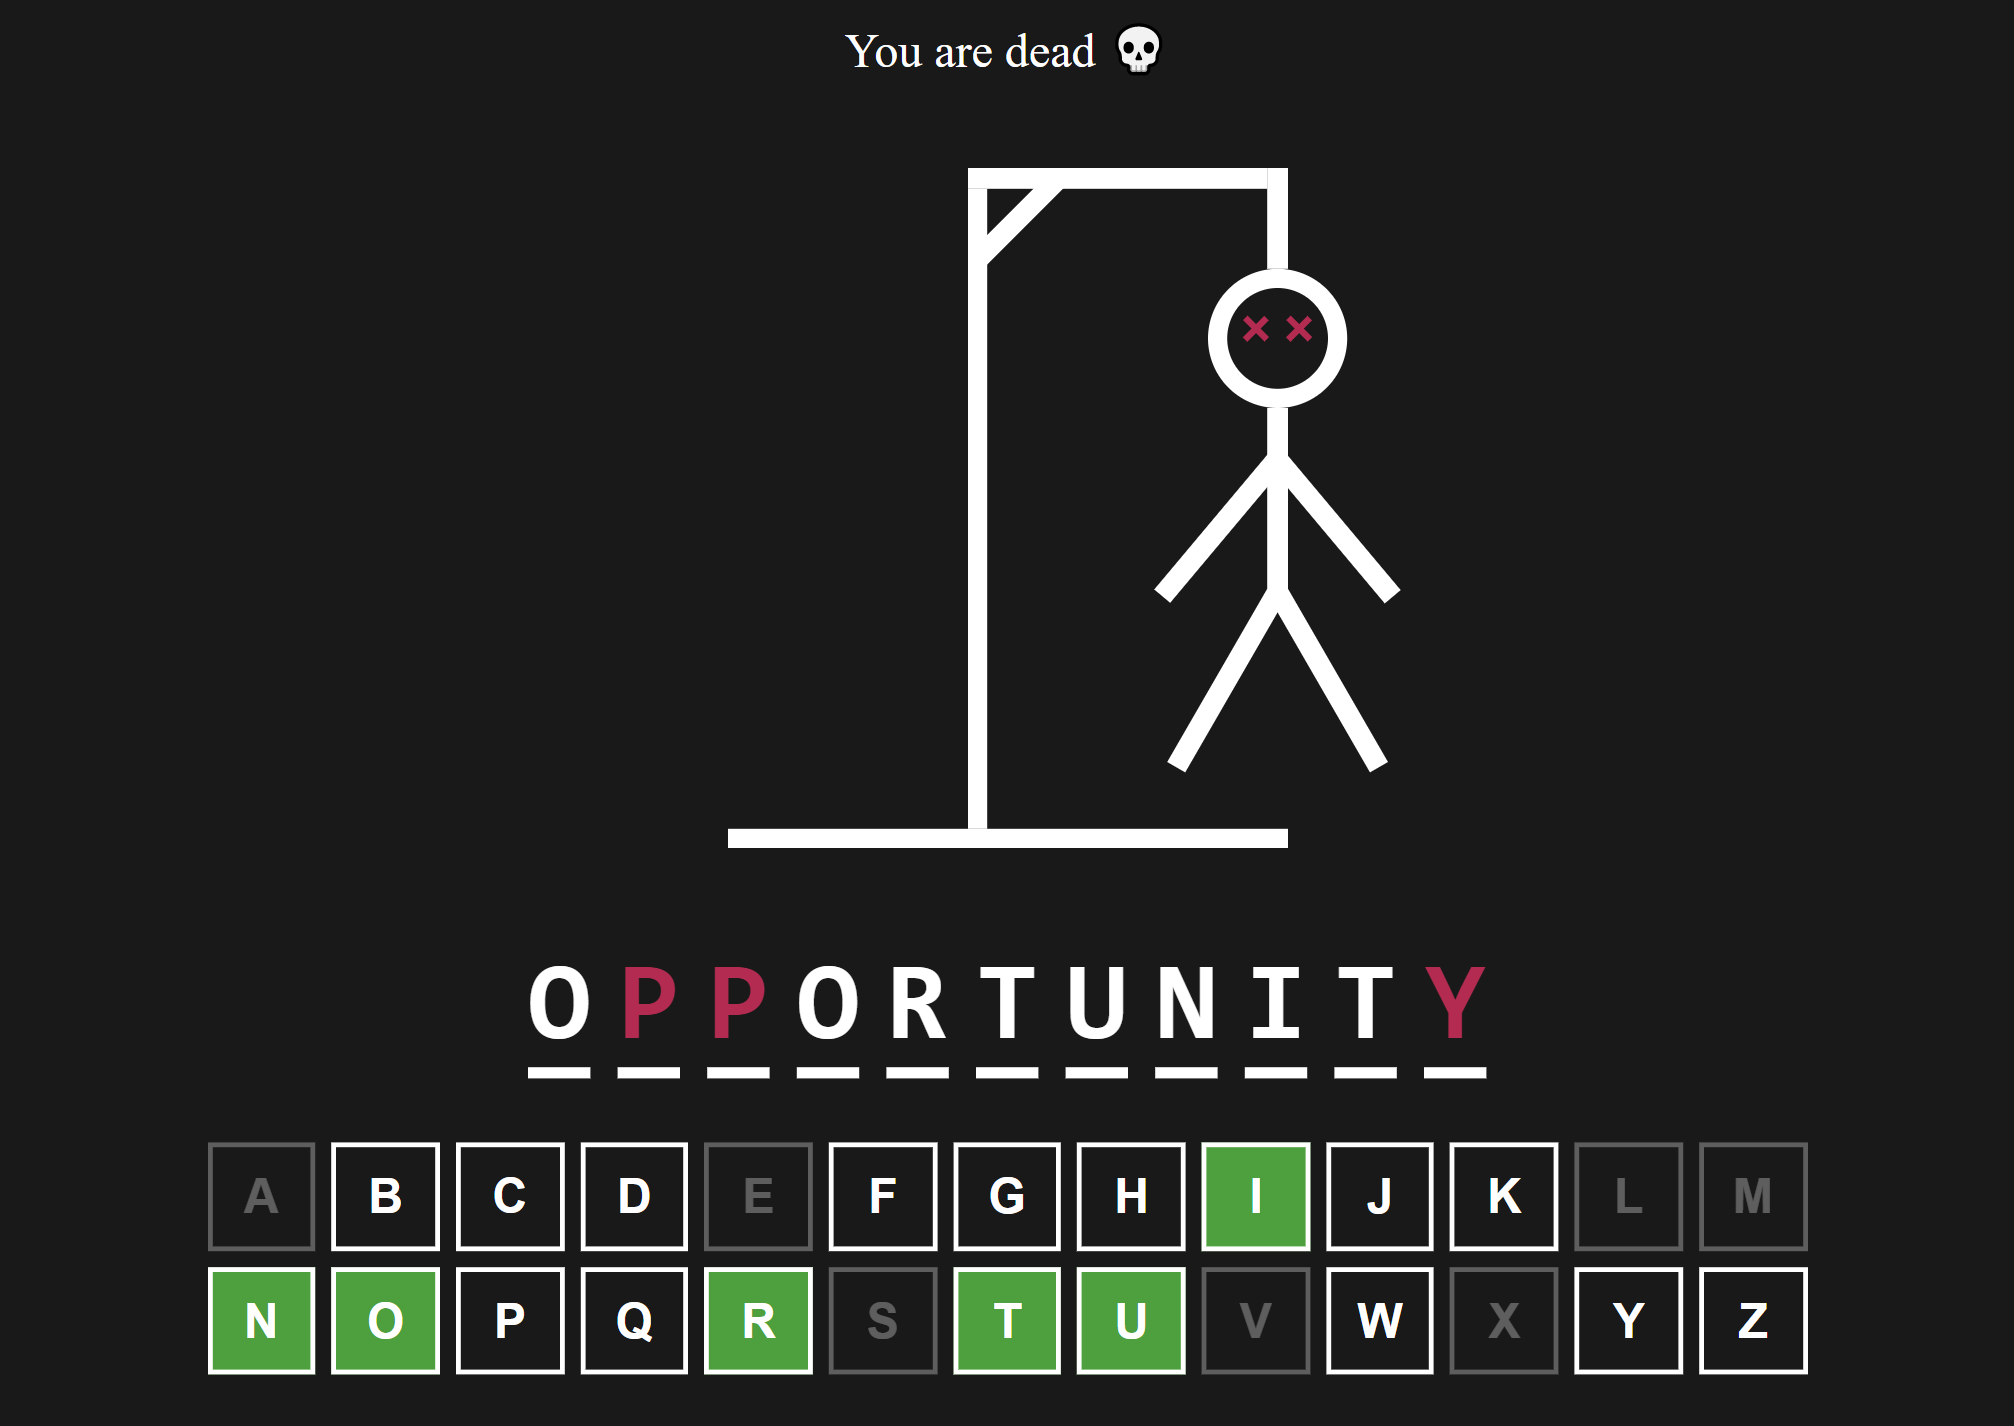
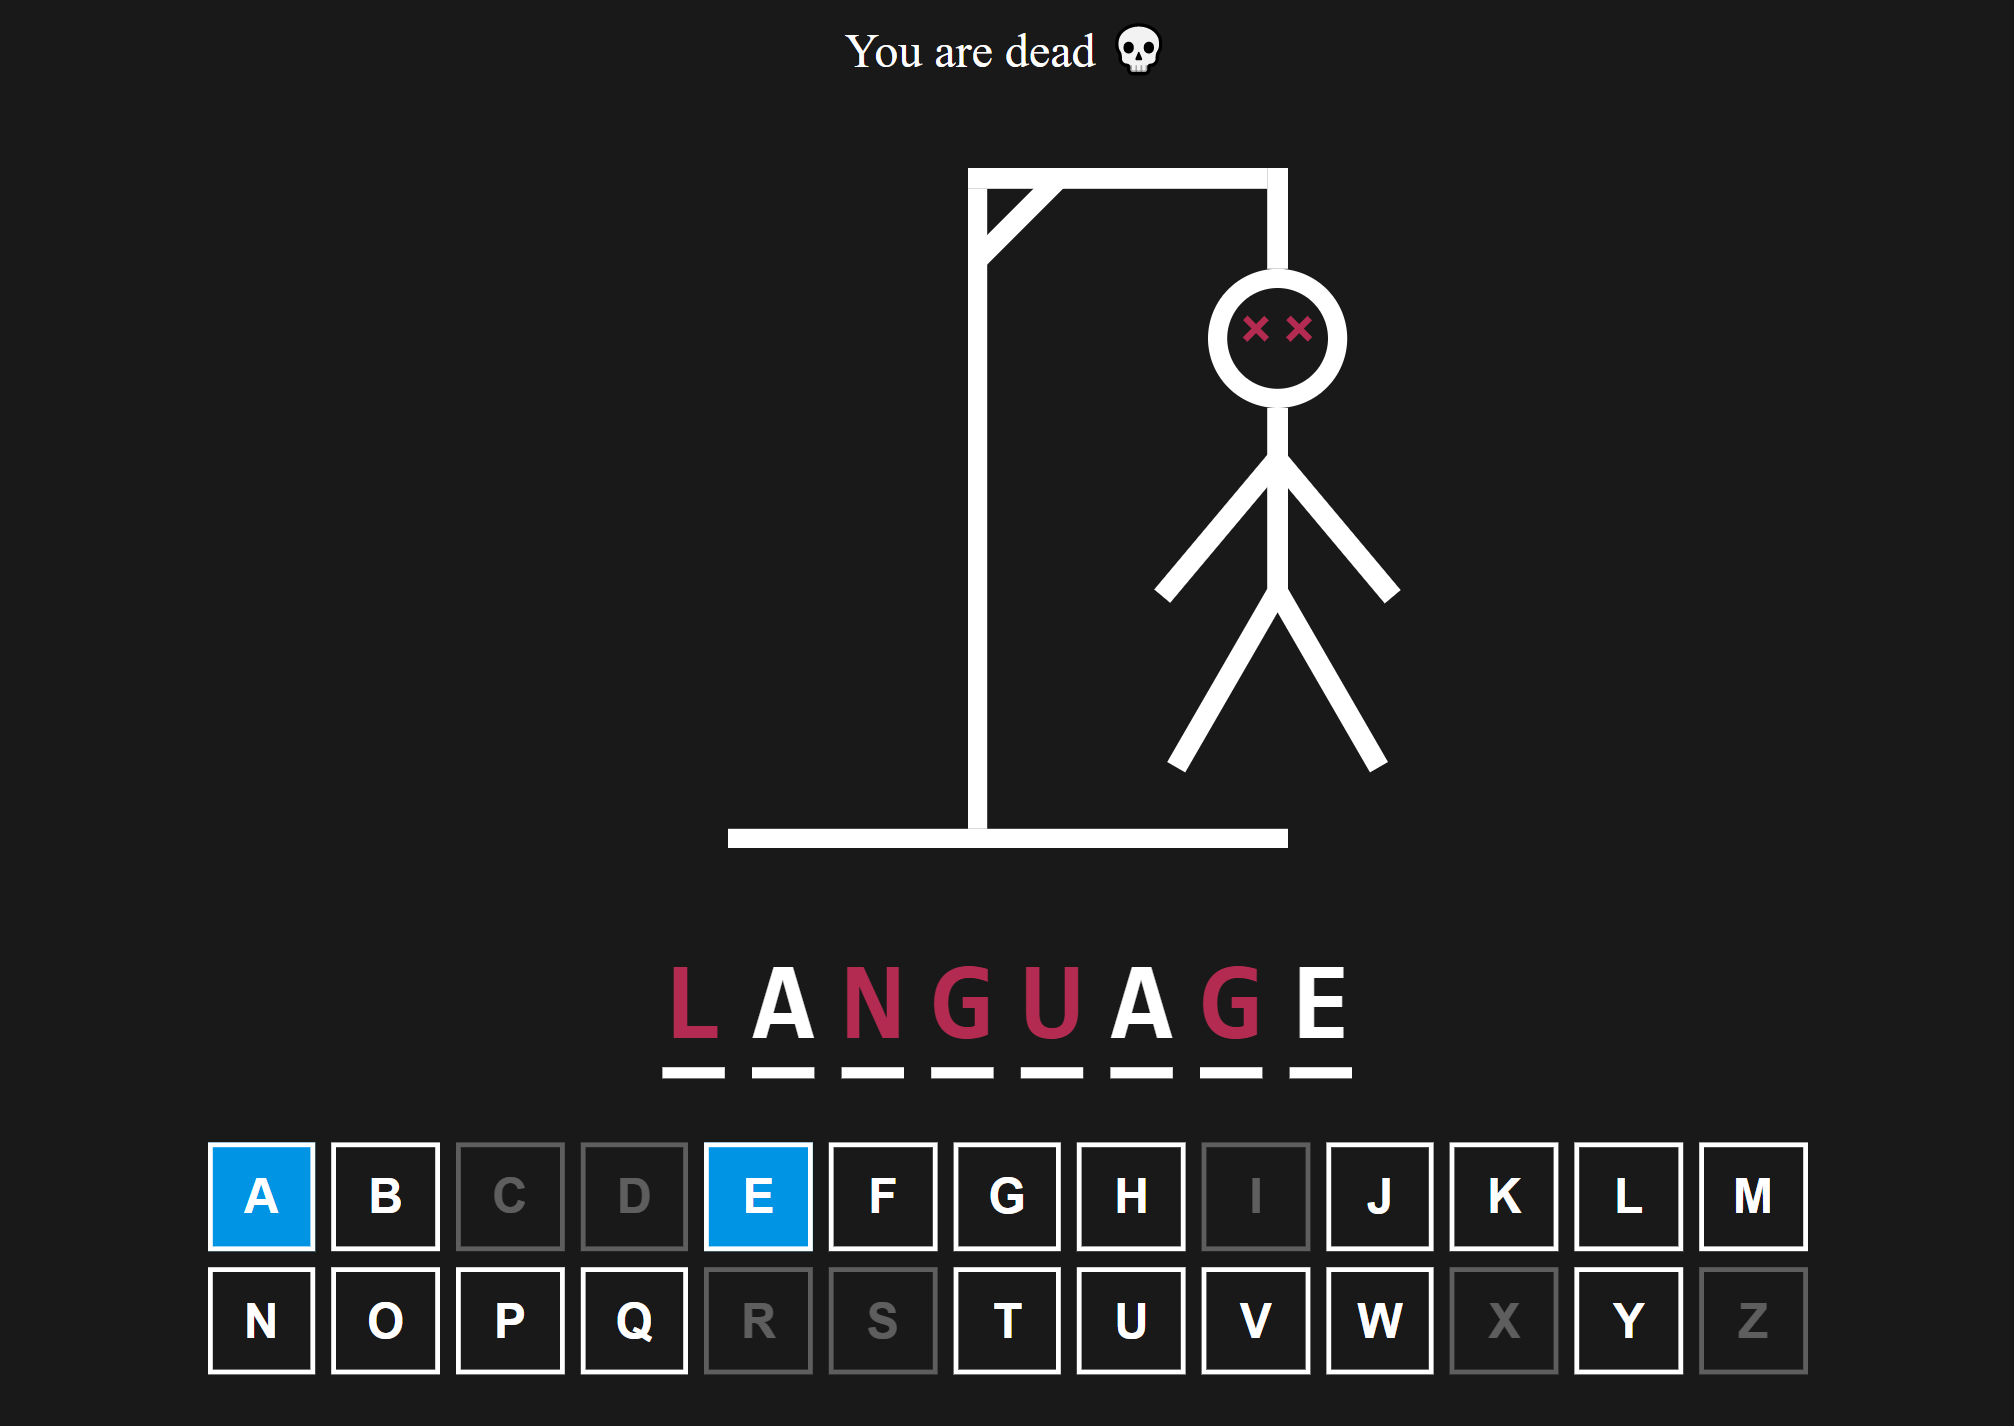
readme update

diff --git a/src/Keyboard.module.css b/src/Keyboard.module.css
@@ -11,7 +11,7 @@
 }
 
 .btn.active {
-  background-color: #4e9f3d;
+  background-color: #0094e4;
   color: white;
 }
 

diff --git a/README.md b/README.md
@@ -1,6 +1,6 @@
 # Hangman Game
 
-In this project, I used `React` and `Typescript` to create a Hangman game.
+In this project, I used `React` <img src="./public/react.png" alt="wrong letter" width="15"/> and `Typescript` <img src="./public/typescript.png" alt="wrong letter" width="15"/> to create a Hangman game.
 
 ## Live Demo
 
